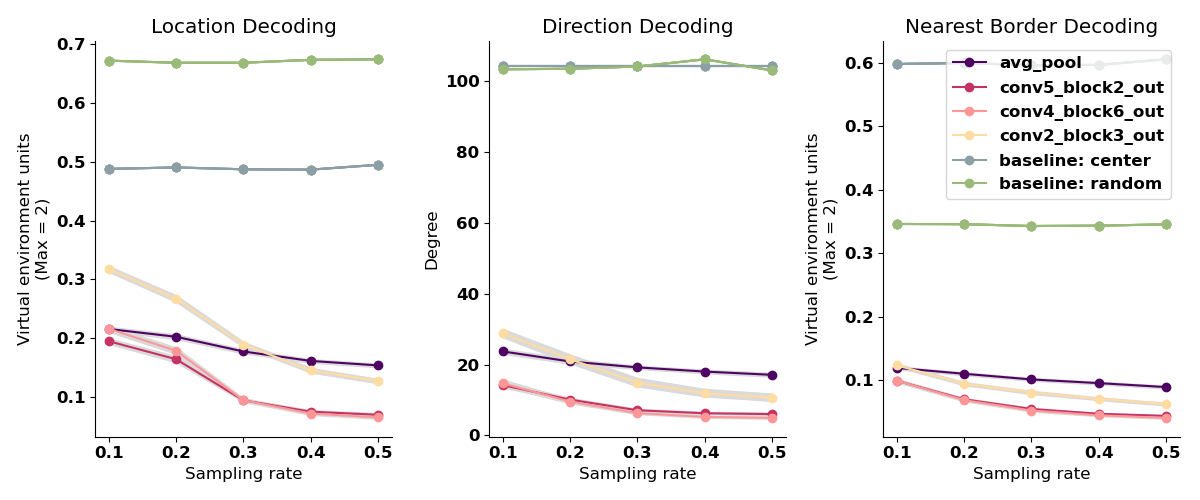
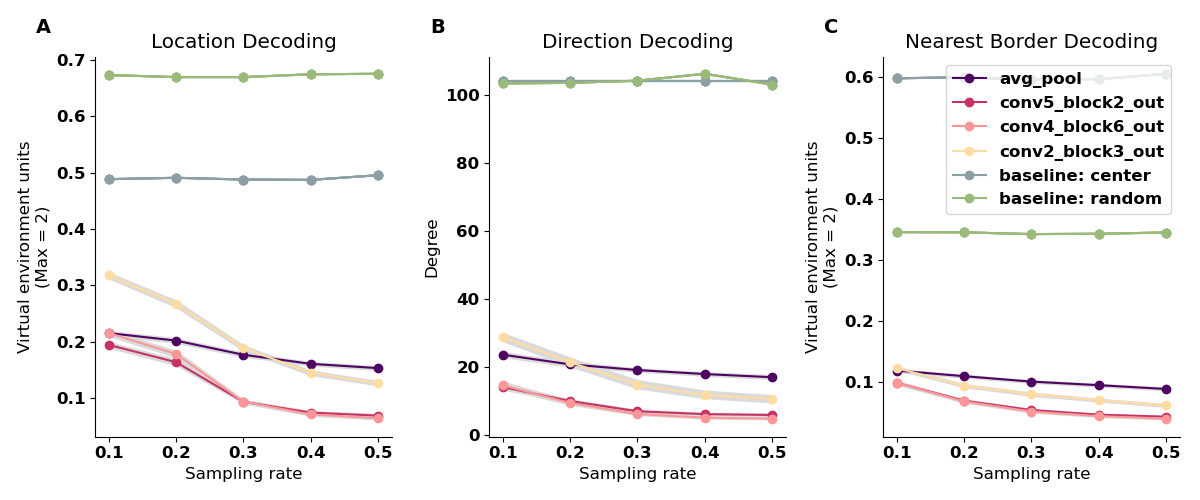
update figs: add A-C labels

diff --git a/figures_paper.py b/figures_paper.py
@@ -179,6 +179,14 @@ def decoding_each_model_across_layers_and_sr():
             axes[i].set_title(title)
             axes[i].spines.right.set_visible(False)
             axes[i].spines.top.set_visible(False)
+        
+        # Add A, B, C labels to subplots
+        axes[0].text(-0.2, 1.1, 'A', fontsize=14, fontweight='bold',
+        transform=axes[0].transAxes, va='top', ha='left')
+        axes[1].text(-0.2, 1.1, 'B', fontsize=14, fontweight='bold',
+        transform=axes[1].transAxes, va='top', ha='left')
+        axes[2].text(-0.2, 1.1, 'C', fontsize=14, fontweight='bold',
+        transform=axes[2].transAxes, va='top', ha='left')
         plt.tight_layout()
         plt.legend(loc='upper right')
         plt.savefig(f'figs/paper/decoding_{model_name}.png')
@@ -1768,10 +1776,10 @@ def unit_chart_visualization_piechart():
 
 if __name__ == '__main__':
     TF_NUM_INTRAOP_THREADS = 10
-    # decoding_each_model_across_layers_and_sr()
+    decoding_each_model_across_layers_and_sr()
     # decoding_all_models_one_layer_one_sr()
     # lesion_by_coef_each_model_across_layers_and_lr()
     # lesion_by_unit_chart_each_model_across_layers_and_lr()
     # unit_chart_type_against_coef_each_model_across_layers()
-    unit_visualization_by_type()
+    # unit_visualization_by_type()
     # unit_chart_visualization_piechart()
